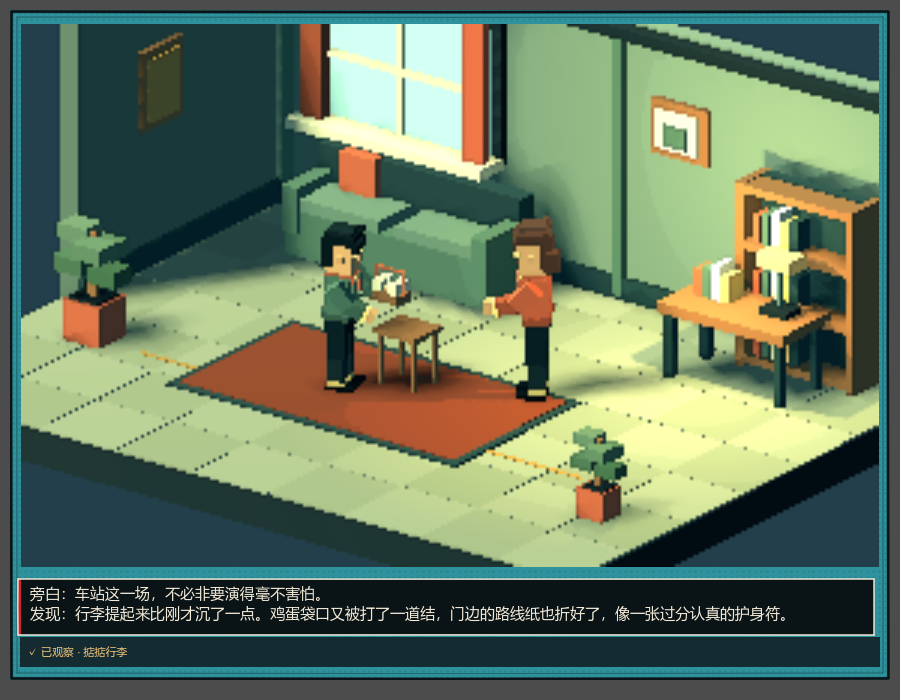
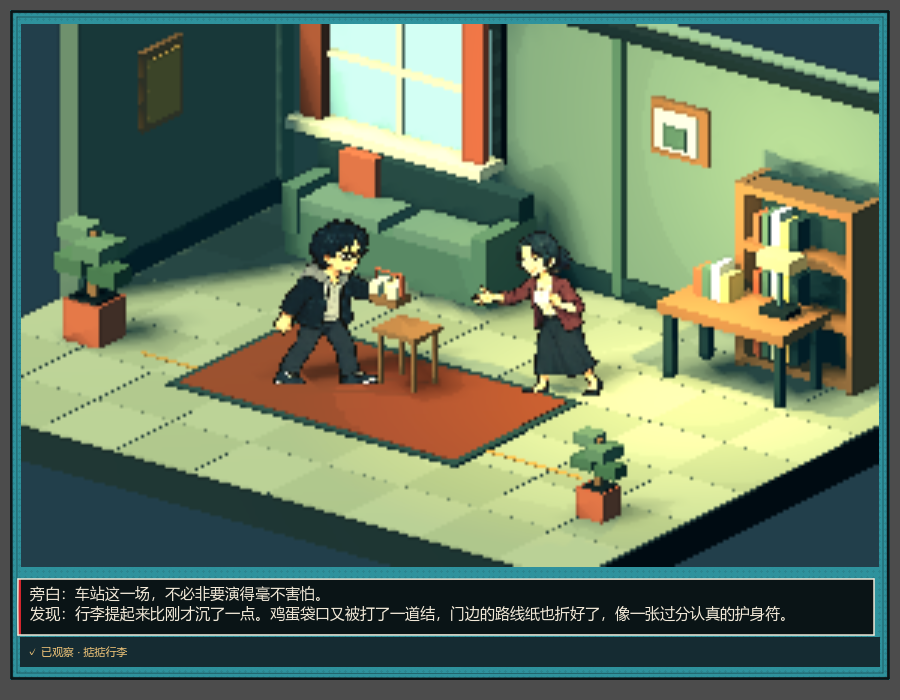
fix(animation): use 2D pixel characters in lit 3D comic environments

Changed region(s): [[0.28, 0.3, 0.7778, 0.6], [0.7156, 0.42, 0.7467, 0.45]]

diff --git a/docs/hd2d-characters.md b/docs/hd2d-characters.md
@@ -1,0 +1,21 @@
+# 3D 场景 + 2D 像素人物
+
+2026-10-24 根据用户补充图片纠正演出方向：真实 3D 房间、家具和灯光中，放置平面的 2D 像素人物。主游戏与 PixelStageLab 均改用这条路径。此前体素人脚本只作为历史实现保留，不再被主舞台加载。
+
+![Godot 实际运行画面](pixel-stage-3d-preview.png)
+
+## 实现
+
+- `pixel_billboard_actor.gd` 以 `Sprite3D` 展示仓库现有全身人物图集，主角和 NPC 共用构图与比例规则；奶蛙保留自己的 2D 像素素材。
+- 待机、说话、伸手、挥手选择对应全身姿势；主角走路使用四帧步态。角色在世界中移动，图像平面随相机朝向更新，避免侧向镜头把人物看成一条线。
+- 最近邻采样保持清晰像素。透明裁切去掉矩形背景；人物参与场景光照、深度测试和投影。人物不是覆盖在漫画最上面的 UI，因此会被场景前景遮挡。
+- 脚底固定在角色的 3D 位置。贴图中心沿相机上方向移动半个人物高度；持物锚点依据当前姿态、左右朝向和镜头同步计算，继续连接观察、接物与特殊镜头。
+- 五种立体布景、31 个事件观察、16 段实时镜头和书签格式沿用上一版。
+
+参考图片与《风来之国》《八方旅人》用于确定二维人物、立体空间和色彩层次的方向。本次复用项目已有美术并更换角色渲染方式；环境仍是现有五种布景，尚未达到参考图的建筑装饰密度，也未制作完整八方向角色动画。
+
+## 查看
+
+Godot 的 `scenes/PixelStageLab.tscn` 按 F6 可预览；F5 后从首页进入「折痕与歪楼 · 新剧情漫画人生」。已有书签也使用新的二维人物，不需要重新开始。
+
+验证：`pixel_stage_smoke` 检查角色确实是 Sprite3D、没有体素身体、与相机平行、手部接物位置及离屏释放；`life_comic_ui_smoke` 检查实际选择、窄屏与恢复；`pixel_reader_smoke` 检查互动存档、镜头重播和窗口缩放。

diff --git a/docs/route-animation.md b/docs/route-animation.md
@@ -1,5 +1,7 @@
 # 动画路线（animation）
 
+最新画面方向已更正为 **3D 场景 + 2D 像素人物**，二维全身动画随相机朝向更新，参与光照和场景遮挡；见 [当前人物渲染说明](hd2d-characters.md)。
+
 新剧情漫画现已接入原生 3D 像素人物与五种立体场景，采用墨青／灰绿／暖琥珀／赤陶色盘，新增 31 个事件观察互动及 8 个特殊事件的 16 段实时 CG 镜头。入口仍在首页「折痕与歪楼 · 新剧情漫画人生」；`scenes/PixelStageLab.tscn` 可 F6 预览。运行、旧档迁移和视口管理见 [漫画里的 3D 像素舞台](pixel-stage-3d.md)。
 
 新剧情已接入 Godot：默认首页新增「折痕与歪楼 · 新剧情漫画人生」，原生加载 story 分支的 24 事件内容包，支持年龄窗口、随机后果、四档叙事、突发事件及独立书签。按用户「将剧情内容导入 Godot」的要求，本次在此分支新增运行模块并对共享首页作最小入口改动；见 [接入与运行说明](story-life-godot.md)。

diff --git a/docs/pixel-stage-3d.md b/docs/pixel-stage-3d.md
@@ -1,5 +1,7 @@
 # 漫画里的 3D 像素舞台
 
+> 后续更正：按用户提供的新参考，主游戏已改为 **3D 场景 + 2D 像素人物**。下文的体素人物说明属于上一版记录；当前角色实现和限制见 [二维人物接入说明](hd2d-characters.md)。
+
 新剧情漫画人生的角色和背景现在放在同一个 Godot 3D 空间中：人物有身体体积、关节动作和落地位置，家具、墙壁、树木会参与遮挡与光照。漫画仍然向下阅读，人物对白和旁白继续分开呈现；每个可见分镜显示自己的微缩场景。
 
 ![Godot 实际运行：人物接过鸡蛋袋](pixel-stage-3d-preview.png)
